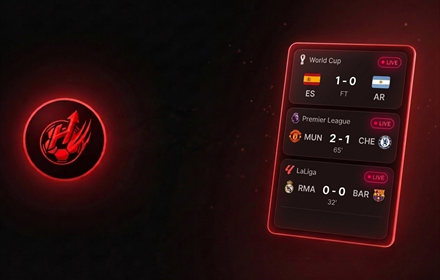
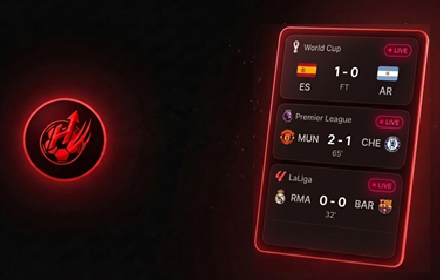
Bump version to 1.5 and finalize Chrome Web Store promo assets

Changed region(s): [[0.5614, 0.0857, 0.975, 0.9714], [0.7977, 0.3714, 0.8273, 0.4]]

diff --git a/README.md b/README.md
@@ -17,11 +17,11 @@ shown when the upstream API supports that data.
 - Chrome Web Store listing: `https://chromewebstore.google.com/detail/hype-live-football-scores/cdnpjnmhmagmiefkleefgchgffeaacaa`
 - GitHub repository: `https://github.com/Atakan0zkan/HypeScore.git`
 - Published extension ID: `cdnpjnmhmagmiefkleefgchgffeaacaa`
-- Extension manifest version: `1.4.5`
-- Current store package: `dist/hype-live-football-scores-v1.4.5-chrome-web-store.zip`
+- Extension manifest version: `1.5`
+- Current store package: `dist/hype-live-football-scores-v1.5.0-chrome-web-store.zip`
 - Worker URL: `https://api.atakanozkan.com`
 - Latest deployed Worker version: `5394c8c3-5f38-45cd-b5fe-50d794f83f1a`
-- The v1.4.5 Worker is deployed to production and the live 32-competition API smoke test passes.
+- The v1.5.0 Worker is deployed to production and the live 32-competition API smoke test passes.
 
 ## Open-source notes
 
